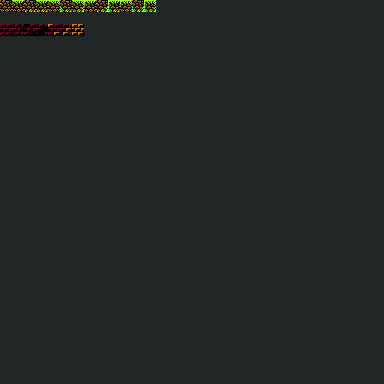
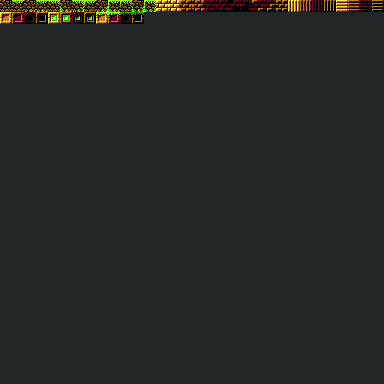
Simple tile rendering with texturing.

Changed region(s): [[0.4062, 0.0, 1.0, 0.0312], [0.0, 0.0312, 0.375, 0.0938]]

diff --git a/questionmark/Game1.cs b/questionmark/Game1.cs
@@ -1,17 +1,25 @@
 using Microsoft.Xna.Framework;
 using Microsoft.Xna.Framework.Graphics;
 using Microsoft.Xna.Framework.Input;
+using System;
 
 namespace questionmark
 {
 	public class Game1 : Game
 	{
+		World world;
+
 		Render renderer;
 
 		GraphicsDeviceManager graphics;
 
 		public Game1()
 		{
+			IsMouseVisible = true;
+			Window.Title = "?????";
+			IsFixedTimeStep = true;
+			TargetElapsedTime = new TimeSpan(166667);
+			
 			graphics = new GraphicsDeviceManager(this);
 			graphics.PreferredBackBufferWidth = 640;
 			graphics.PreferredBackBufferHeight = 480;
@@ -21,6 +29,8 @@ namespace questionmark
 		protected override void Initialize()
 		{
 			renderer = new Render(this);
+
+			world = new World(16, 16);
 			base.Initialize();
 		}
 
@@ -46,7 +56,7 @@ namespace questionmark
 		{
 			GraphicsDevice.Clear(Color.Black);
 
-			renderer.renderGame();
+			renderer.renderWorld(world);
 
 			base.Draw(gameTime);
 		}

diff --git a/questionmark/World.cs b/questionmark/World.cs
@@ -6,13 +6,46 @@ using System.Threading.Tasks;
 
 namespace questionmark
 {
+	public enum TileType : ushort
+	{
+		EMPTY = 0,
+		DIRT = 1,
+		BRICK = 2,
+		WOOD = 3,
+		SQUARE = 4
+	}
+
+	[Serializable]
 	public struct Tile
 	{
-
+		public TileType backgroundTile, mainTile, foregroundTile;
+		public byte backgroundIndex, mainIndex, foregroundIndex;
 	}
 
 	public class World
 	{
+		int width, height;
+		Tile[,] tiles;
 
+		public World(int w, int h)
+		{
+			width = w;
+			height = h;
+			tiles = new Tile[width, height];
+
+			initTestWorld();
+		}
+
+		public void initTestWorld()
+		{
+			for (int x = 0; x < tiles.GetLength(0); x++)
+			{
+				for (int y = 0; y < tiles.GetLength(1); y++)
+				{
+					tiles[x, y].backgroundTile = TileType.BRICK;
+					tiles[x, y].backgroundIndex = 4;
+				}
+			}
+		}
 	}
 }

diff --git a/questionmark/Render.cs b/questionmark/Render.cs
@@ -11,9 +11,10 @@ namespace questionmark
 {
 	public class Render
 	{
+		SpriteBatch spriteBatch;
+
 		Texture2D tileSheet;
 
-		SpriteBatch spriteBatch;
 		public Render(Game1 game)
 		{
 			spriteBatch = new SpriteBatch(game.GraphicsDevice);
@@ -24,12 +25,11 @@ namespace questionmark
 			tileSheet = content.Load<Texture2D>("visual/tilesheet");
 		}
 
-		public void renderGame()
+		public void renderWorld(World world)
 		{
-			spriteBatch.Begin();
-
-			spriteBatch.Draw(tileSheet, new Rectangle(0, 0, 640, 480), Color.White);
-
+			// background
+			spriteBatch.Begin(SpriteSortMode.Deferred, null, SamplerState.PointClamp, null, null, null, null);
+			spriteBatch.Draw(tileSheet, new Rectangle(0, 0, 36, 36), new Rectangle(12 * 13, 0, 12, 12), Color.White);
 			spriteBatch.End();
 		}
 	}
